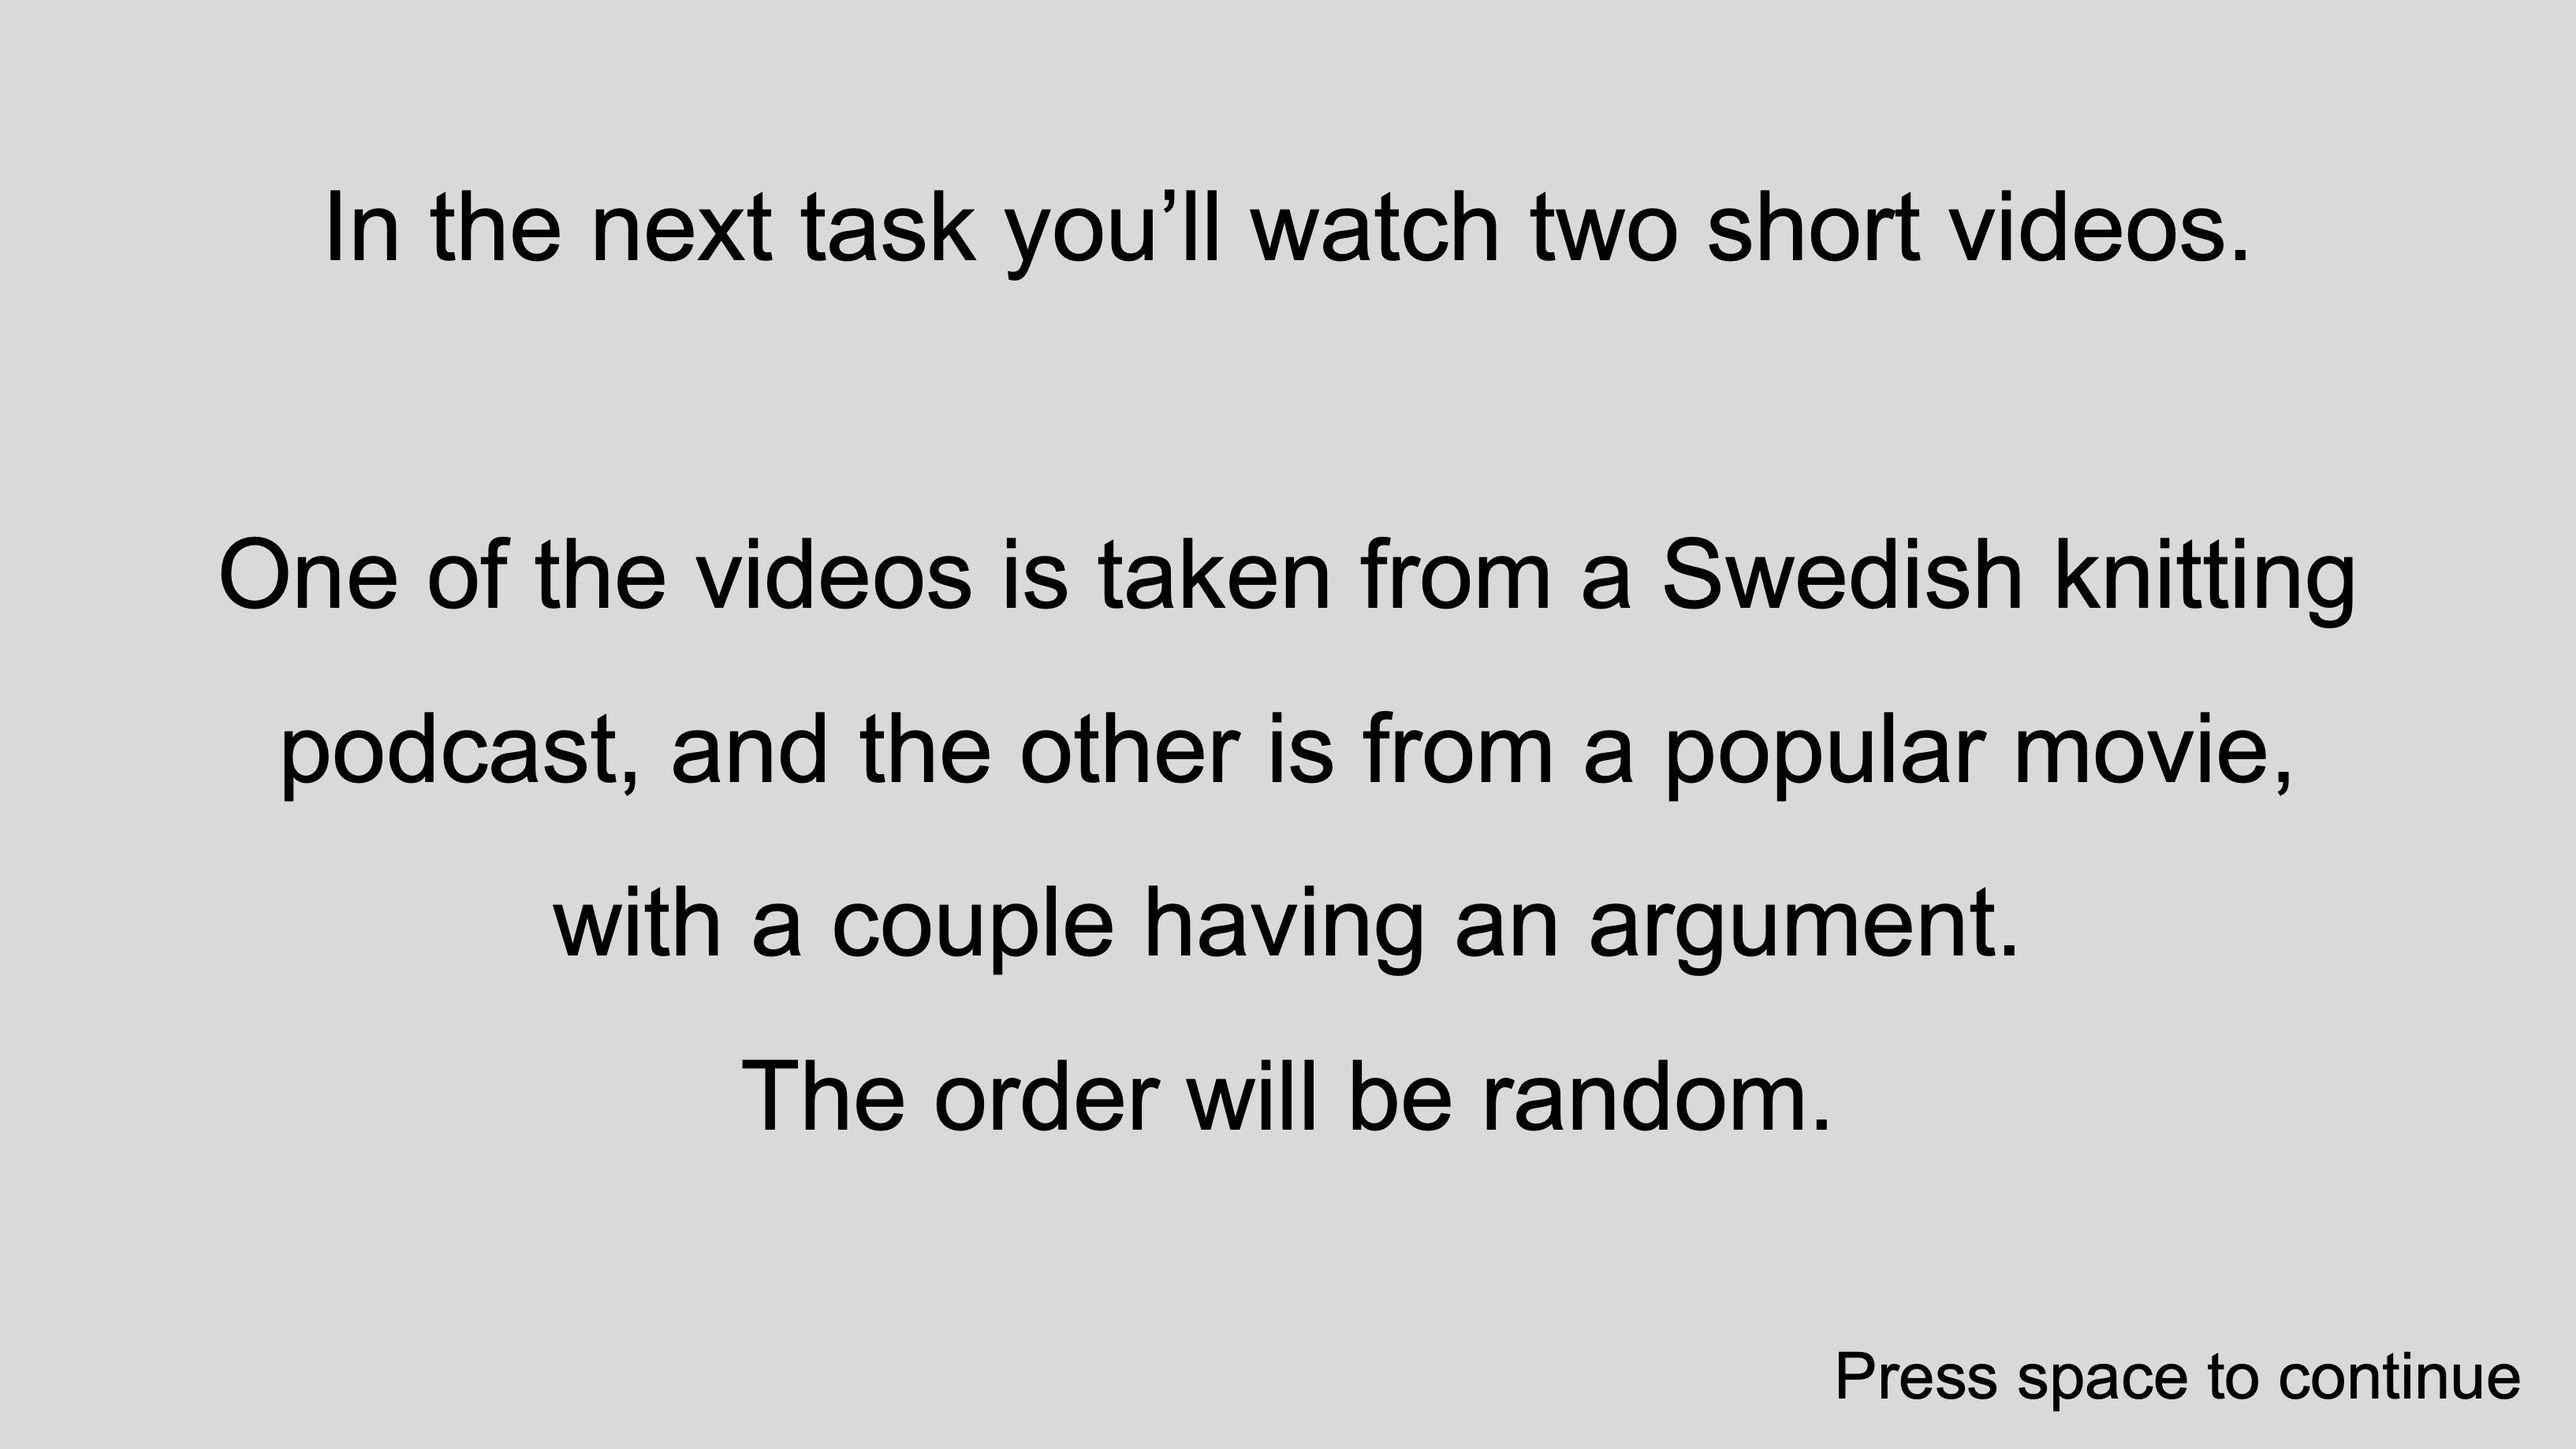
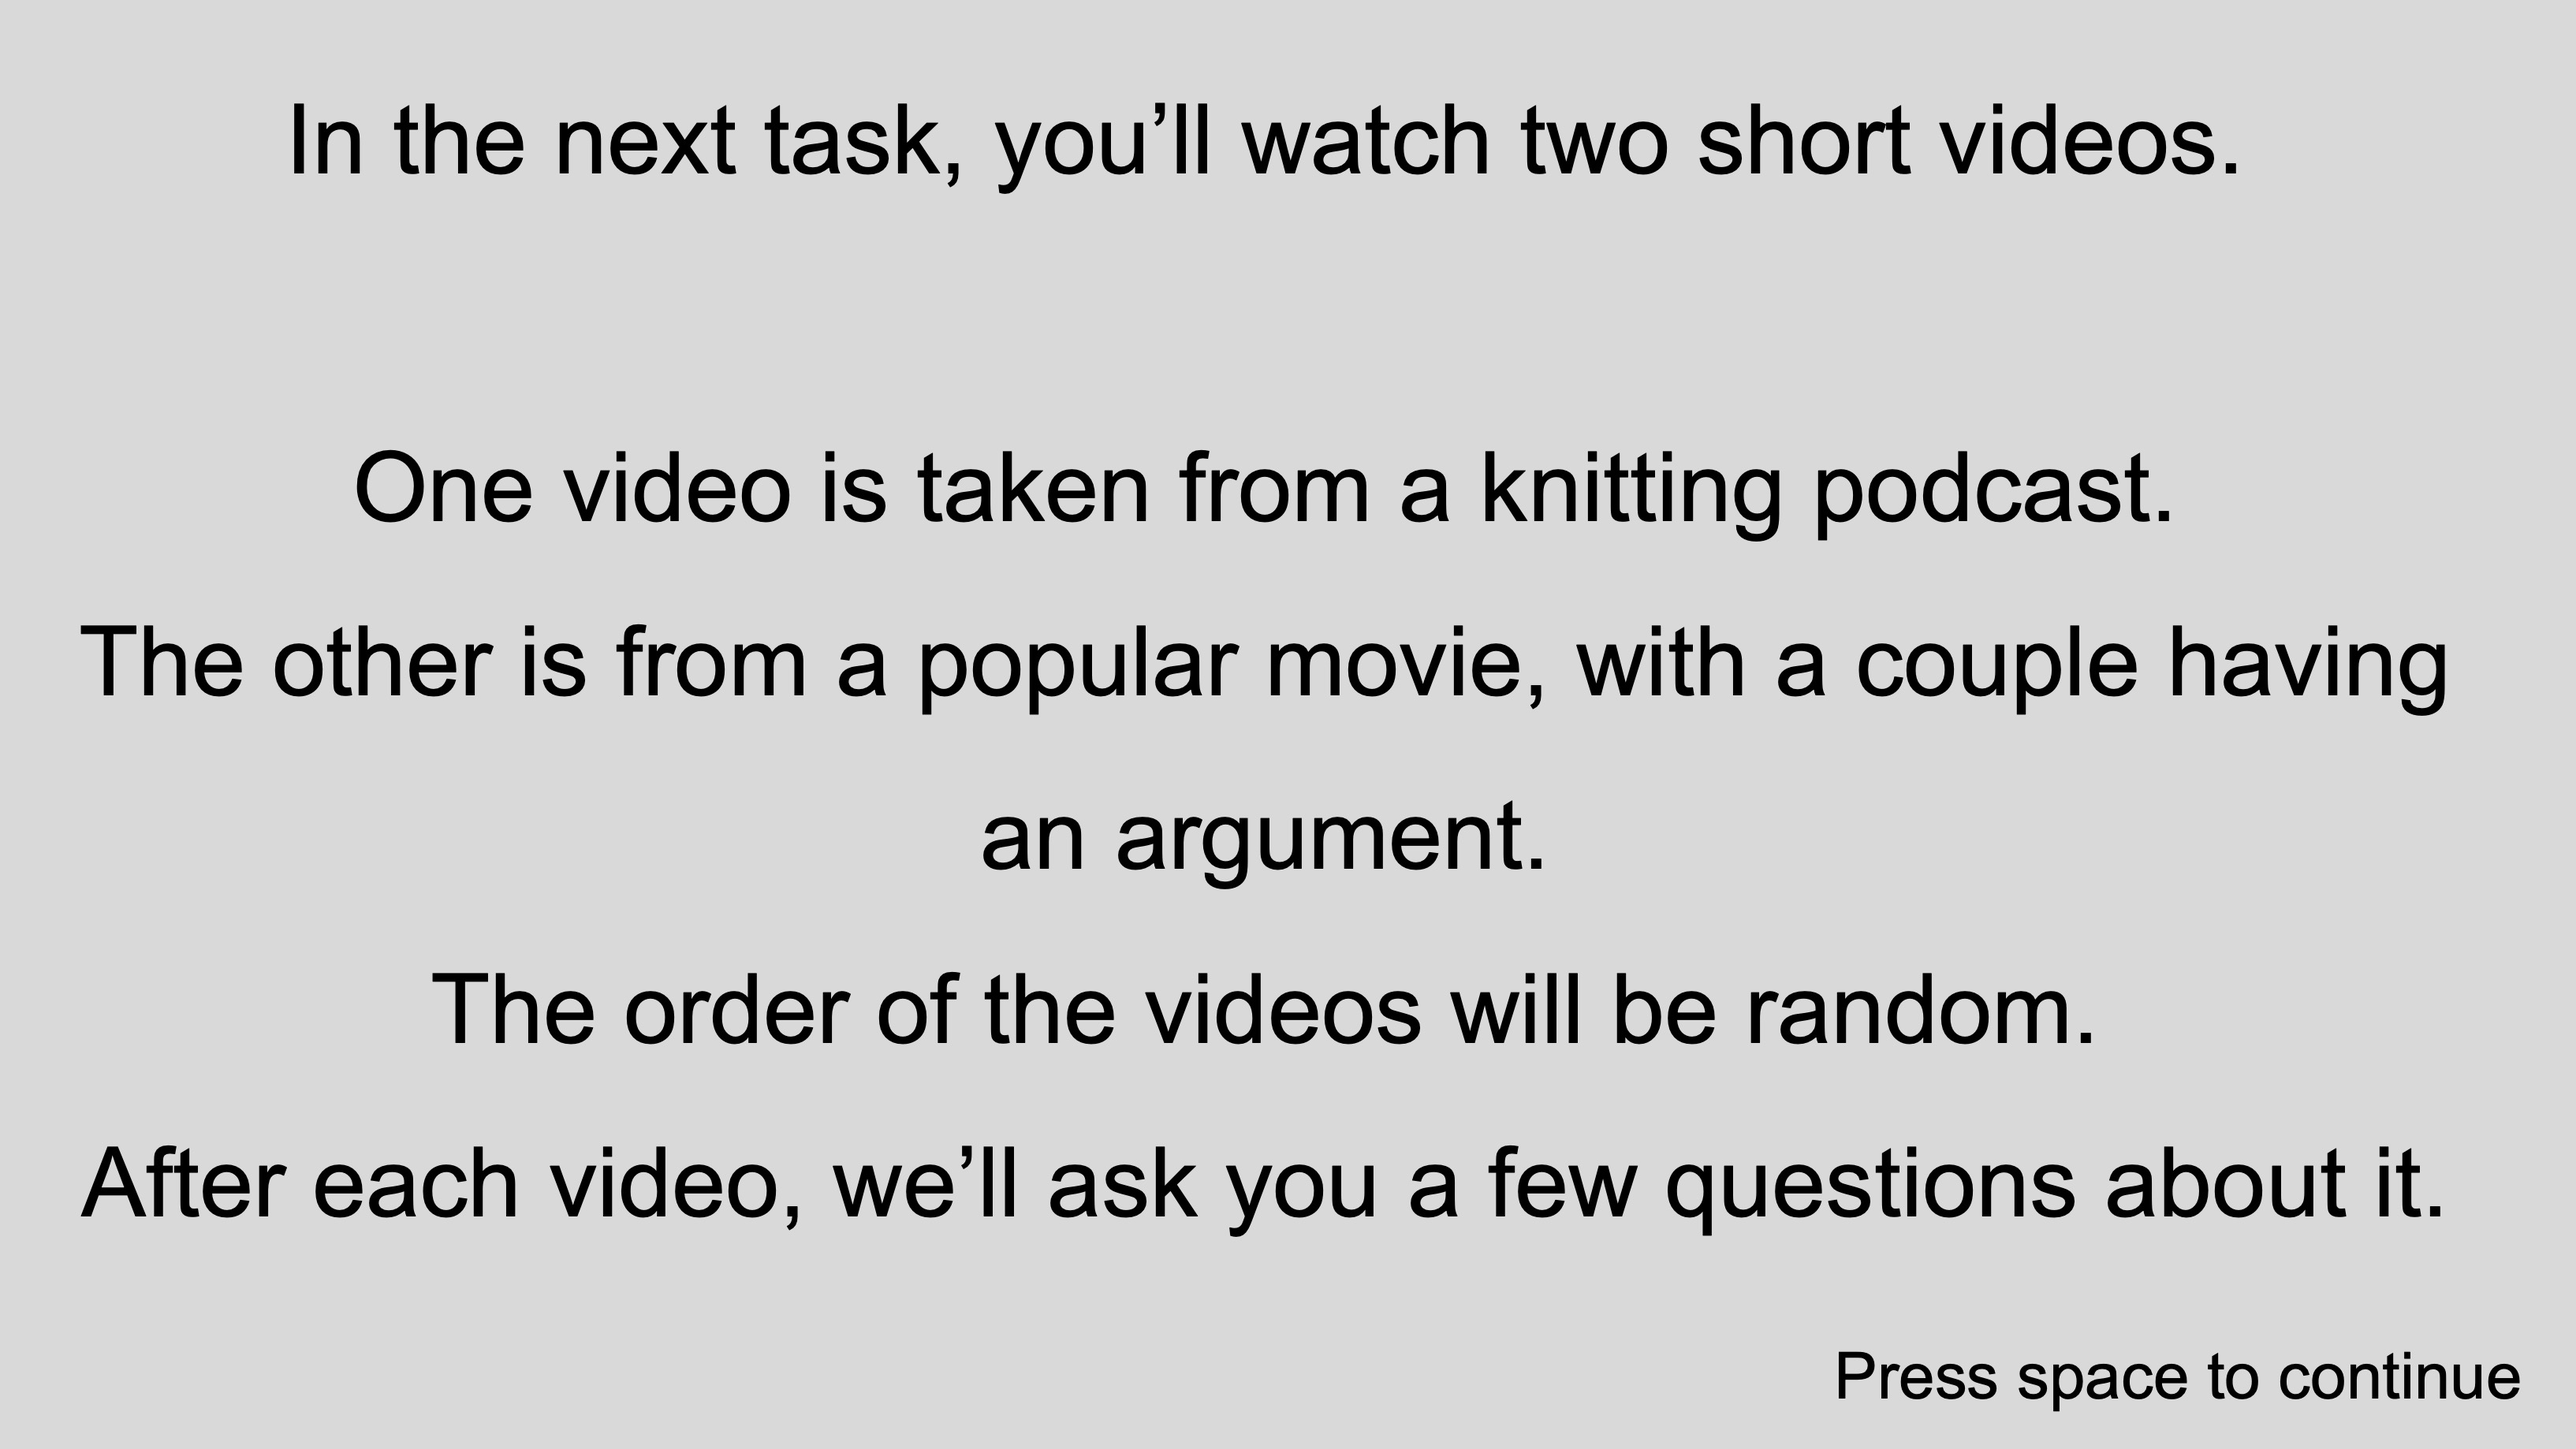
Changed instructions in the pretest as per Rany's Request

Changed region(s): [[0.0312, 0.3101, 0.9679, 0.8683], [0.0937, 0.062, 0.8742, 0.1861]]

diff --git a/Assignments/NPU/pretestVideos.py b/Assignments/NPU/pretestVideos.py
@@ -34,7 +34,7 @@ def run_post_videos(win: visual.Window, params: dict, io, ser=None):
     instructions(win, params, keyboard)
 
     # Prepare subject for fixation
-    fixation_message(win, params, keyboard)
+    fixation_message(win, params, keyboard, 1)
 
     # Initiate Fixation
     img = visual.ImageStim(win=win, image="./img/plus.jpeg", units='norm', size=(2, 2))
@@ -108,7 +108,7 @@ def run_post_videos(win: visual.Window, params: dict, io, ser=None):
     df = VideosVAS.run_vas(win, df, dict_for_df, category, params['language'])
 
     # Show Fixation message and initiate fixation
-    fixation_message(win, params, keyboard)
+    fixation_message(win, params, keyboard, 2)
 
     img = visual.ImageStim(win=win, image="./img/plus.jpeg", units='norm', size=(2, 2))
     img.draw()
@@ -170,7 +170,7 @@ def run_post_videos(win: visual.Window, params: dict, io, ser=None):
     vas_message(win, params, keyboard)
     df = VideosVAS.run_vas(win, df, dict_for_df, category, params['language'])
 
-    fixation_message(win, params, keyboard)
+    fixation_message(win, params, keyboard, 2)
 
     img = visual.ImageStim(win=win, image="./img/plus.jpeg", units='norm', size=(2, 2))
     img.draw()
@@ -247,9 +247,9 @@ def pre_video(win: visual.Window, params: dict, keyboard, video_num):
     wait_for_space(win, keyboard)
 
 
-def fixation_message(win: visual.Window, params: dict, keyboard):
+def fixation_message(win: visual.Window, params: dict, keyboard, instruction: int):
     plus_prep_message = visual.ImageStim(win,
-                                         image=f"./img/instructions/videosInstructions/plusPrep{params['gender'][0]}{params['language'][0]}.jpeg",
+                                         image=f"./img/instructions/videosInstructions/plusPrep{params['gender'][0]}{params['language'][0]}_{instruction}.jpeg",
                                          units="norm", pos=(0, 0), size=(2,2))
     plus_prep_message.draw()
     win.flip()

diff --git a/Assignments/NPU/main.py b/Assignments/NPU/main.py
@@ -64,7 +64,7 @@ window.update()
 helpers.wait_for_space_no_df(window, io)
 
 
-params['videos_timing'] = 'Start' # random.choice(['Start', 'End'])
+params['videos_timing'] = random.choice(['Start', 'End'])
 if params['showVideos'] and params['videos_timing'] == 'Start':
     pretestVideos.run_post_videos(window, params, io, ser)
 
